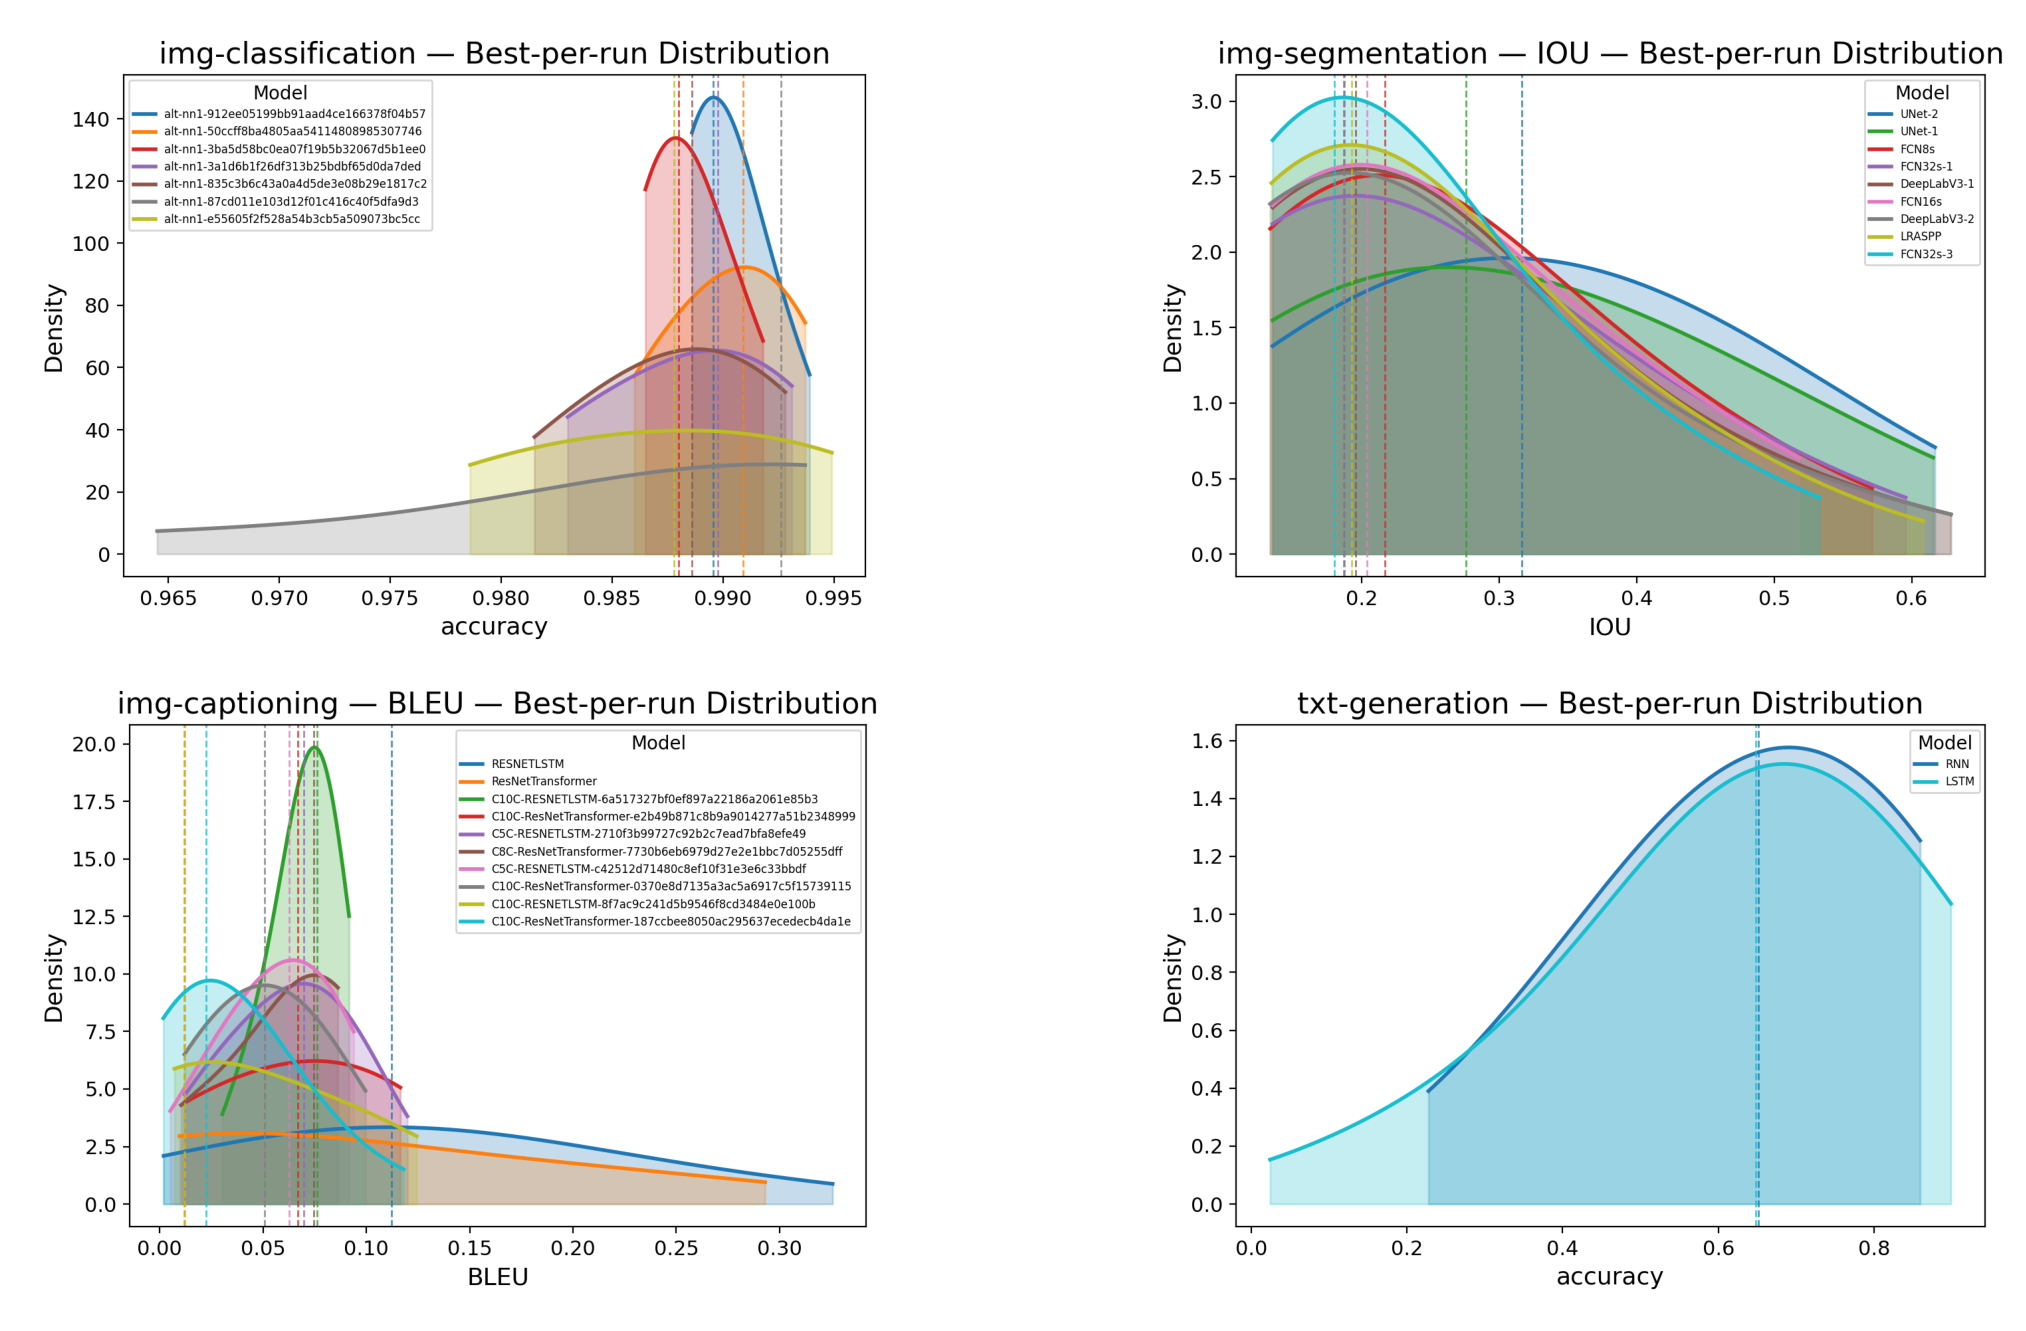
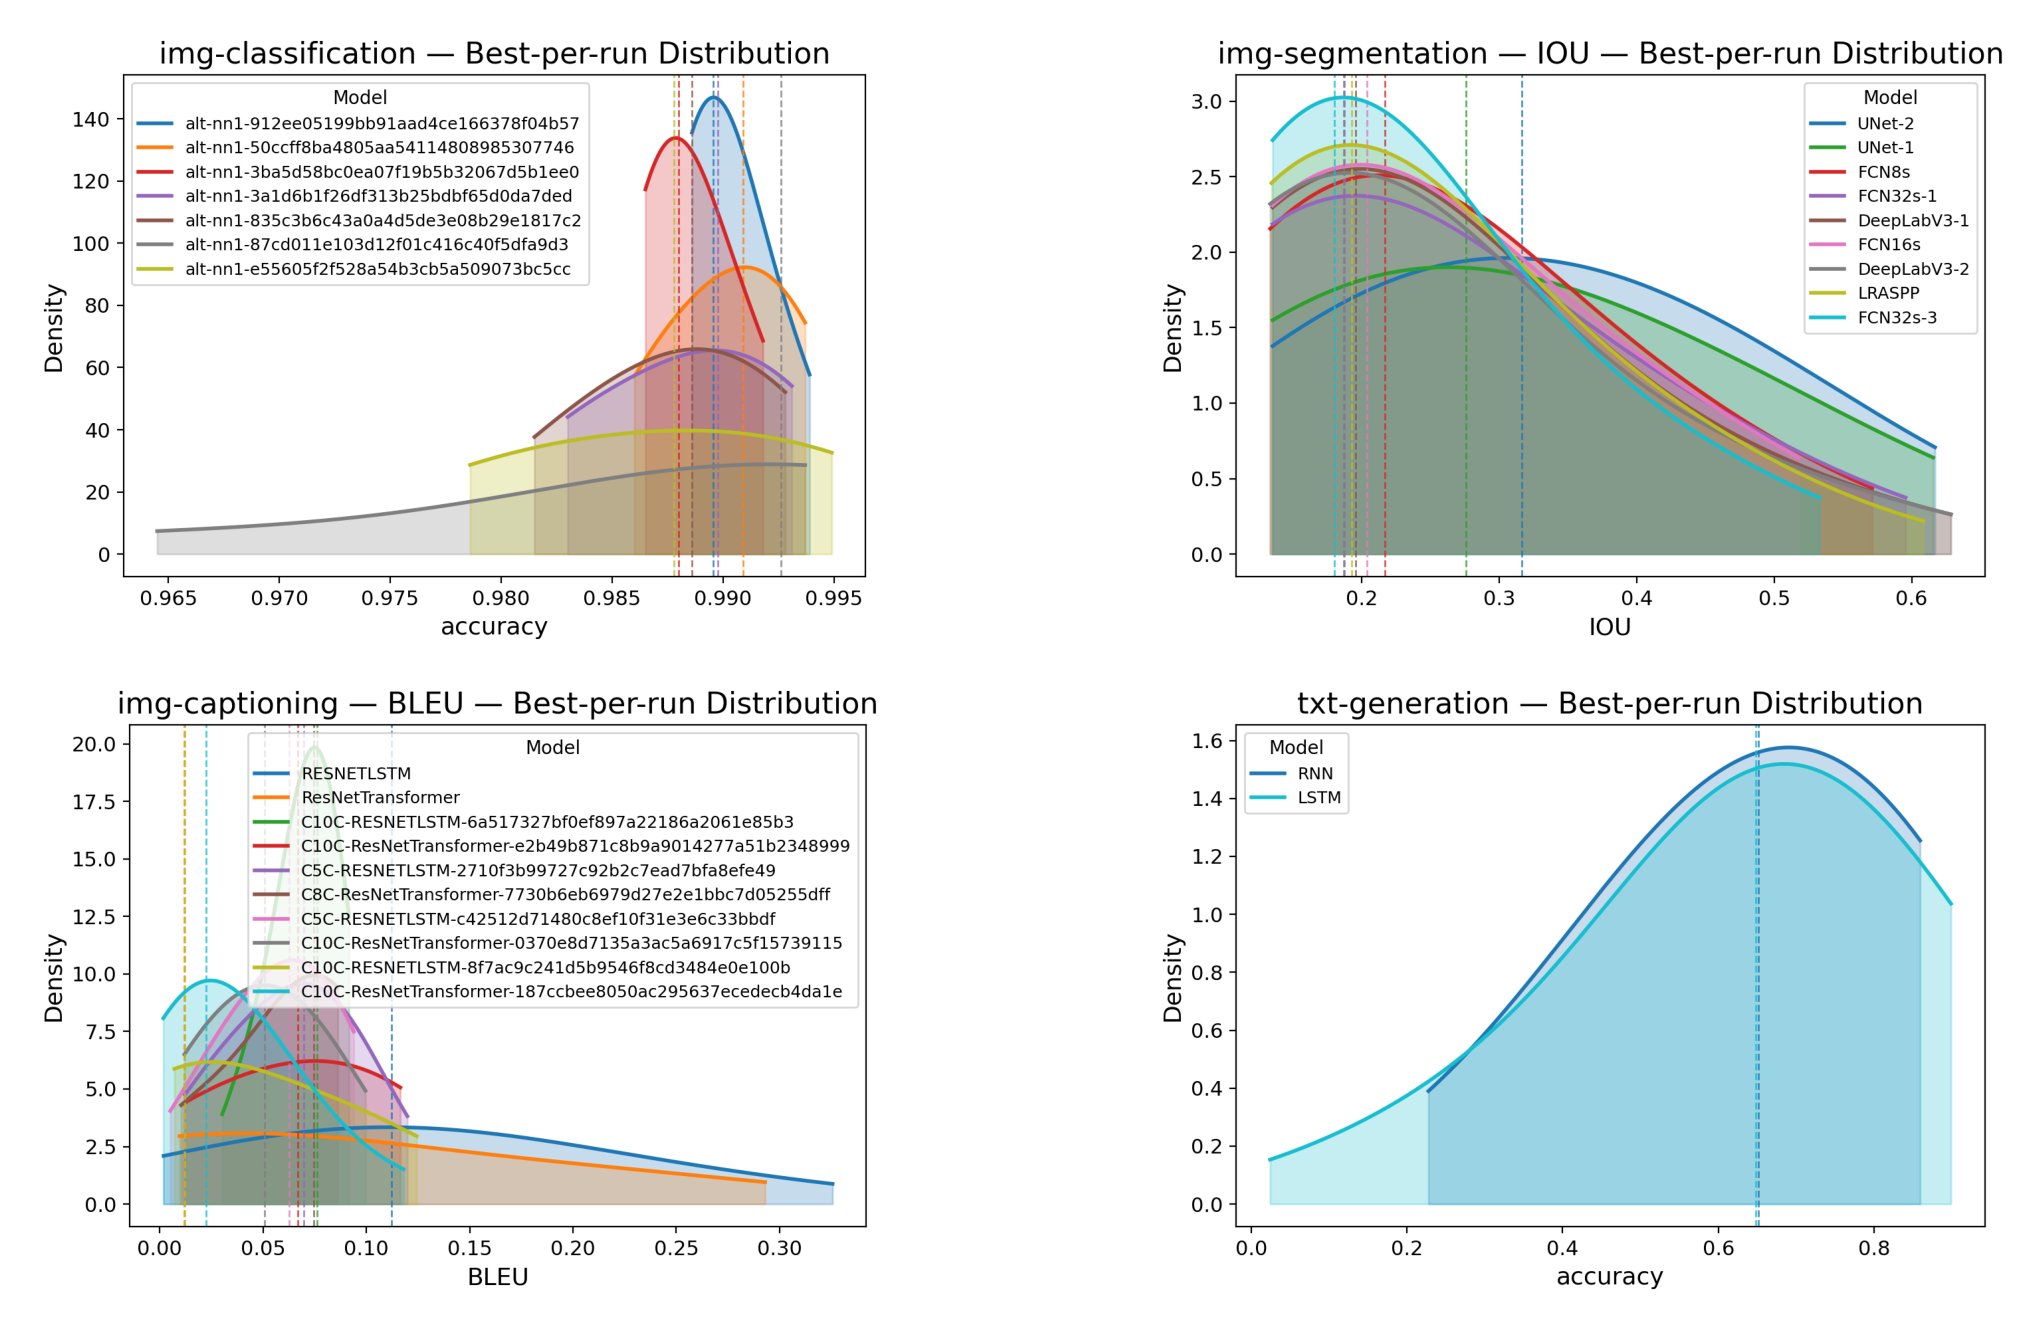
changed fontsize for some plt legends

diff --git a/ab/stat/create_stats.py b/ab/stat/create_stats.py
@@ -405,7 +405,7 @@ def plot_task_best_metric_distribution(
     title_fontsize=16,
     label_fontsize=13,
     tick_fontsize=11,
-    legend_fontsize=11,
+    legend_fontsize=9,
 ):
     os.makedirs(outdir, exist_ok=True)
 
@@ -486,7 +486,7 @@ def plot_task_best_metric_distribution(
     plt.ylabel("Density", fontsize=label_fontsize)
     plt.xticks(fontsize=tick_fontsize)
     plt.yticks(fontsize=tick_fontsize)
-    plt.legend(title="Model", fontsize=6)
+    plt.legend(title="Model", fontsize=legend_fontsize)
     plt.tight_layout()
 
 
@@ -538,7 +538,7 @@ def plot_pareto_best_vs_duration(
     title_fontsize=16,
     label_fontsize=13,
     tick_fontsize=11,
-    legend_fontsize=11,
+    legend_fontsize=9,
 ):
     os.makedirs(outdir, exist_ok=True)
 
@@ -594,7 +594,7 @@ def plot_pareto_best_vs_duration(
     plt.ylabel(metric_label, fontsize=label_fontsize)
     plt.xticks(fontsize=tick_fontsize)
     plt.yticks(fontsize=tick_fontsize)
-    plt.legend(fontsize=7, ncol=2, frameon=False)
+    plt.legend(fontsize=legend_fontsize, ncol=2, frameon=False)
     plt.tight_layout()
 
 
